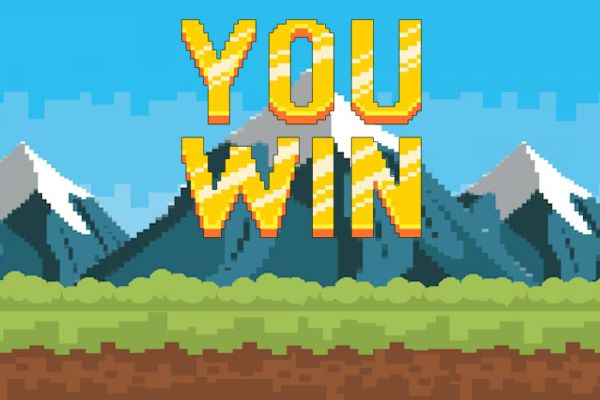
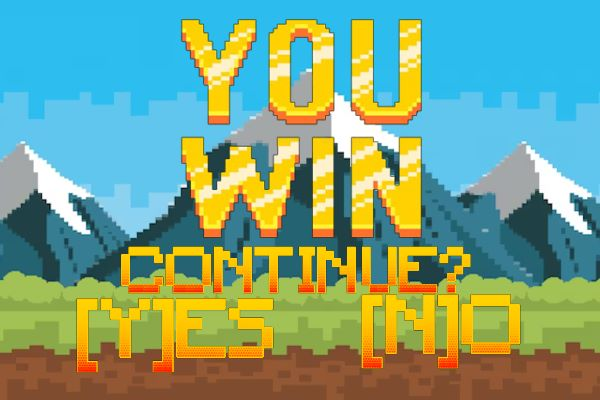
Algunos ajustes.

Changed region(s): [[0.12, 0.6, 0.87, 0.93]]

diff --git a/source/MyWorld.java b/source/MyWorld.java
@@ -88,7 +88,8 @@ public class MyWorld extends World {
 
         // revisar si el perro ya llegó al otro lado
         if (this.dog.getPosX() + this.dog.getImage().getWidth() >= WorldMap.MAP_WIDTH * WorldMap.TILE_SIZE) {
-            WindowSwitcher.nextLevel(this.level);
+            // reiniciar el nivel
+            WindowSwitcher.showLevel(this.level);
         }
 
         this.cars.forEach(car -> {
@@ -123,7 +124,7 @@ public class MyWorld extends World {
      * @author Montse
      */
     private void generateThieves() {
-        int count = 10;
+        int count = 5;
 
         while (count > 0) {
             int x = random.nextInt(WorldMap.MAP_WIDTH);
@@ -140,7 +141,7 @@ public class MyWorld extends World {
     private void generateCars() {
         int numberOfVerticalStreets = WorldMap.MAP_WIDTH / 16 + (WorldMap.MAP_WIDTH % 16 > 0 ? 1 : 0);
 
-        for (int i = 0; i < 10; i++) {
+        for (int i = 0; i < 5; i++) {
             int randomStreet = random.nextInt(numberOfVerticalStreets);
             int y = random.nextInt(WorldMap.MAP_HEIGHT * WorldMap.TILE_SIZE);
             int x = randomStreet * 16 * WorldMap.TILE_SIZE + 32;

diff --git a/source/WindowSwitcher.java b/source/WindowSwitcher.java
@@ -11,19 +11,40 @@ public class WindowSwitcher
         switch (currentLevel) {
             case 1:
             {
-                Level2Intro intro = new Level2Intro();
+                showLevel(2);
+                break;
+            }
+            case 2:
+            {
+                showLevel(3);
+                break;
+            }
+            case 3:
+            {
+                win();
+            }
+        }
+    }
+
+    public static void showLevel(int level) {
+        switch (level) {
+            case 1:
+            {
+                Level1Intro intro = new Level1Intro();
                 Greenfoot.setWorld(intro);
                 break;
             }
             case 2:
             {
-                Level3Intro intro = new Level3Intro();
+                Level2Intro intro = new Level2Intro();
                 Greenfoot.setWorld(intro);
                 break;
             }
             case 3:
             {
-                lose();
+                Level3Intro intro = new Level3Intro();
+                Greenfoot.setWorld(intro);
+                break;
             }
         }
     }

diff --git a/source/GameOverScreen.java b/source/GameOverScreen.java
@@ -24,9 +24,8 @@ public class GameOverScreen extends World {
      */
     public void act() {
         if (Greenfoot.isKeyDown("Y")) {
-            Level1Intro intro = new Level1Intro();
             Greenfoot.delay(10);
-            Greenfoot.setWorld(intro);
+            WindowSwitcher.showLevel(1);
         }
         if (Greenfoot.isKeyDown("N")) {
             System.exit(0);

diff --git a/source/InstructionsScreen2.java b/source/InstructionsScreen2.java
@@ -18,9 +18,8 @@ public class InstructionsScreen2 extends World {
 
     public void act() {
         if (Greenfoot.isKeyDown("ENTER")) {
-            Level1Intro intro = new Level1Intro();
             Greenfoot.delay(10);
-            Greenfoot.setWorld(intro);
+            WindowSwitcher.showLevel(1);
         }
     }
 

diff --git a/source/Dog.java b/source/Dog.java
@@ -70,7 +70,7 @@ public class Dog extends Character {
         }
 
         if (isTouchingPlayer()) {
-            WindowSwitcher.win();
+            WindowSwitcher.nextLevel(((MyWorld) this.getWorld()).getLevel());
         }
     }
 

diff --git a/source/Level1Intro.java b/source/Level1Intro.java
@@ -16,6 +16,7 @@ public class Level1Intro extends World
     {    
         // Create a new world with 600x400 cells with a cell size of 1x1 pixels.
         super(600, 400, 1);
+        Timer.reset();
         prepare();
     }
 

diff --git a/source/Timer.java b/source/Timer.java
@@ -29,4 +29,12 @@ public class Timer {
     public static void update() {
         time++;
     }
+    
+    /**
+     * Reinicia el temporizador a 0
+     */
+    public static void reset()  {
+        time = 0;
+    }   
+
 }
